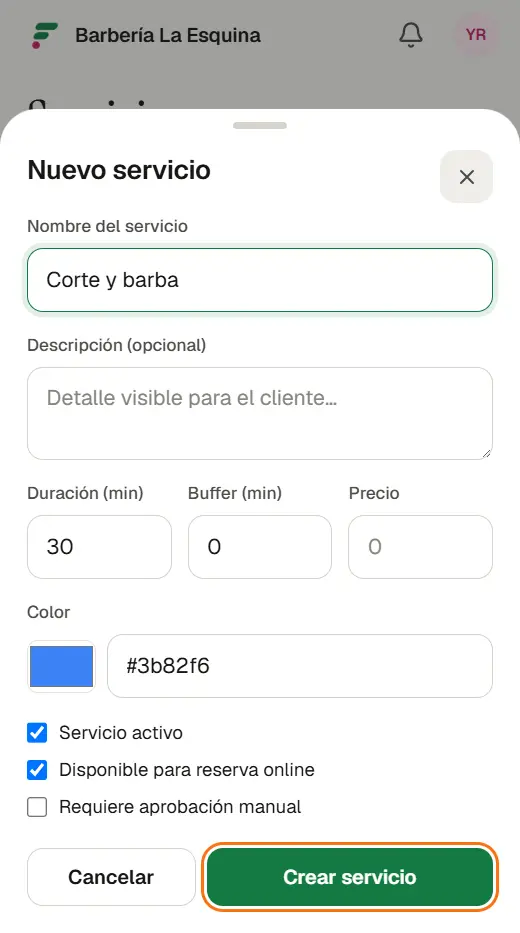
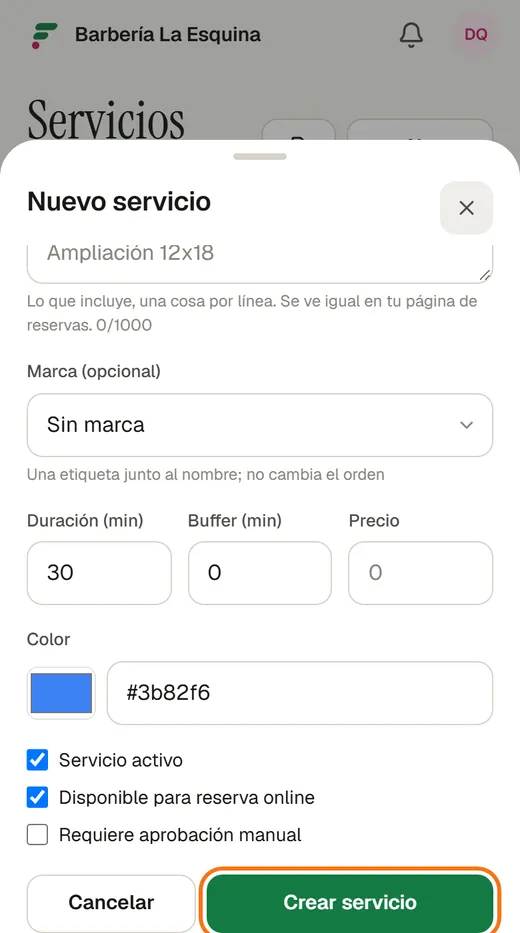
docs(services): manual, setup-guide photo and landing card for categories
Manual: categories, ordering, badges, duplicate, select-all per category,
the new "¿Qué te interesa?" step and category links. The services photo
of the setup guide is retaken (the form gained Marca and a taller
description). Landing gets a "Servicios por categorías" card.

diff --git a/docs/user-manual/turno-flash-user-manual.html b/docs/user-manual/turno-flash-user-manual.html
@@ -532,7 +532,7 @@
     <li>Pulsa <span class="ui">Nuevo turno</span> (en el teléfono, el botón redondo <span class="ui">+</span>).</li>
     <li>Elige el <strong>cliente</strong> de la lista. Si es nuevo, pulsa <span class="ui">Nuevo</span>, completa nombre, apellido, teléfono y (si quieres) email, y pulsa <span class="ui">Crear y seleccionar</span>.</li>
     <li>Elige <strong>fecha</strong> y <strong>hora</strong> de inicio.</li>
-    <li>Toca el <strong>servicio</strong>. Cada opción muestra la duración y el precio; la hora de fin se calcula sola.</li>
+    <li>Toca el <strong>servicio</strong>. Cada opción muestra la duración y el precio; la hora de fin se calcula sola. Si usas categorías, los servicios aparecen agrupados bajo el nombre de cada una.</li>
     <li>Opcional: elige el <strong>profesional</strong> o deja <span class="ui">Cualquiera</span>, y agrega una nota.</li>
     <li>Pulsa <span class="ui">Crear turno</span>.</li>
   </ol>
@@ -611,7 +611,10 @@
     <table>
       <thead><tr><th>Campo</th><th>Para qué sirve</th></tr></thead>
       <tbody>
-        <tr><td>Nombre y descripción</td><td class="wrap">Lo que ven tú y tus clientes en la reserva online.</td></tr>
+        <tr><td>Nombre</td><td class="wrap">Lo que ven tú y tus clientes. Si tienes varios parecidos, pon la diferencia en el nombre: <em>Álbum personalizado 6x8</em>, <em>Álbum personalizado 8x10</em>.</td></tr>
+        <tr><td>Categoría</td><td class="wrap">Solo aparece si creaste categorías (ver más abajo). El servicio se muestra dentro de esa categoría.</td></tr>
+        <tr><td>Descripción</td><td class="wrap">Lo que incluye, <strong>una cosa por línea</strong> (hasta 1000 letras). Tu cliente la ve tal cual la escribiste; si es larga, ve las primeras líneas y el botón <span class="ui">Ver detalle</span>.</td></tr>
+        <tr><td>Marca</td><td class="wrap">Una etiqueta opcional junto al nombre: <span class="ui">Recomendado</span>, <span class="ui">Más popular</span>, <span class="ui">Nuevo</span> u <span class="ui">Oferta</span>. No cambia el orden.</td></tr>
         <tr><td>Duración (min)</td><td class="wrap">Cuánto dura el servicio. Define la hora de fin del turno.</td></tr>
         <tr><td>Buffer (min)</td><td class="wrap">Tiempo extra que se reserva después del servicio para limpiar o prepararse. Ocupa agenda aunque no se cobre.</td></tr>
         <tr><td>Precio</td><td class="wrap">En la moneda de tu negocio.</td></tr>
@@ -622,6 +625,21 @@
     </table>
   </div>
   <p>El interruptor a la derecha de cada servicio lo pausa: deja de ofrecerse sin borrarlo, y queda marcado como <span class="ui">Pausado</span>. Puedes volver a activarlo cuando quieras.</p>
+
+  <h3>Categorías (opcional)</h3>
+  <p>Si ofreces muchos servicios, agrúpalos: por ejemplo <em>Bodas</em>, <em>Quinceañeras</em> y <em>Familiares</em>, o <em>Cortes</em>, <em>Color</em> y <em>Uñas</em>. Así tu cliente elige primero qué le interesa y solo ve esos servicios. Si no creas ninguna, todo sigue como siempre.</p>
+  <ol class="steps">
+    <li>En <span class="path">Servicios</span> pulsa <span class="ui">Categorías</span> (en el teléfono, el botón con la etiqueta, junto a <span class="ui">Nuevo</span>).</li>
+    <li>Escribe el nombre y, si quieres, una descripción corta (por ejemplo, <em>Incluye estilismo y vestuario</em>). Pulsa <span class="ui">Agregar categoría</span>.</li>
+    <li>Abre cada servicio y elige su <strong>Categoría</strong>. Pulsa <span class="ui">Guardar cambios</span>.</li>
+  </ol>
+  <p>En la lista de categorías, las flechas cambian el orden, el lápiz la edita y la papelera la borra. Borrar una categoría <strong>no borra sus servicios</strong>: quedan en <em>Sin categoría</em>. El botón del enlace copia un link que abre tu página de reservas <strong>directo en esa categoría</strong>, ideal para compartir solo las bodas en Instagram o por WhatsApp.</p>
+
+  <h3>Ordenar los servicios</h3>
+  <p>Pulsa <span class="ui">Ordenar</span>, arriba de la lista, y usa las flechas de cada servicio para subirlo o bajarlo dentro de su categoría. Pulsa <span class="ui">Listo</span> al terminar. Ese orden es el que ven tus clientes y tu equipo.</p>
+
+  <h3>Duplicar un servicio</h3>
+  <p>Para cargar varios paquetes parecidos, abre uno y toca <span class="ui">Duplicar este servicio</span>. Se crea una copia llamada <em>… (copia)</em>, con los mismos profesionales asignados, y se abre para que cambies el nombre, lo que incluye y el precio.</p>
 
   <h2 id="td-profesionales">Profesionales</h2>
   <p>En <span class="path">Profesionales</span> cargas a las personas que atienden. Pulsa <span class="ui">Nuevo</span> y completa nombre y apellido; el resto es opcional: apodo (es el nombre que se muestra), teléfono, email, especialidades separadas por coma, una bio y un color para la agenda. Si esa persona entra a la app con su propia cuenta, elígela en <strong>Cuenta de la app</strong>: así verá la pastilla <span class="ui">Mis turnos</span> en su agenda. Además hay tres casillas:</p>
@@ -634,7 +652,7 @@
   <h3>Horario y servicios de cada profesional</h3>
   <p>Desde el menú <span class="ui">⋮</span> › <span class="ui">Horario y servicios</span> de cada profesional configuras tres cosas:</p>
   <ul>
-    <li><strong>Servicios que realiza:</strong> toca los que hace esa persona. Solo esos se le ofrecen online.</li>
+    <li><strong>Servicios que realiza:</strong> toca los que hace esa persona. Solo esos se le ofrecen online. Si usas categorías, <span class="ui">Marcar todos</span> junto a cada una marca todos sus servicios de un toque (y <span class="ui">Quitar todos</span> los desmarca). Un servicio que crees después en esa categoría hay que marcarlo aparte, salvo que lo hayas duplicado de uno que esa persona ya hacía.</li>
     <li><strong>Horario semanal:</strong> para cada día marca <em>Trabaja</em> y define desde y hasta. Si corta al mediodía, usa <span class="ui">Agregar tramo</span> para cargar un segundo horario el mismo día.</li>
     <li><strong>Días libres y vacaciones:</strong> elige desde, hasta y un motivo, y pulsa <span class="ui">Agregar</span>. Se guardan en el momento. Si ya hay turnos esos días, la app te avisa antes: el cierre no los cancela, tienes que moverlos o cancelarlos tú. Desde el panel tampoco se pueden crear turnos con ese profesional en un día cerrado.</li>
   </ul>
@@ -652,6 +670,7 @@
 
   <h3>Qué hace tu cliente en la página</h3>
   <div class="flow" aria-label="Pasos de la reserva online">
+    <span class="chip plain">¿Qué te interesa?</span><span class="arrow">→</span>
     <span class="chip plain">Elige un servicio</span><span class="arrow">→</span>
     <span class="chip plain">¿Con quién?</span><span class="arrow">→</span>
     <span class="chip plain">Elige día y horario</span><span class="arrow">→</span>
@@ -659,6 +678,7 @@
     <span class="chip plain">Listo</span>
   </div>
   <ul>
+    <li><em>¿Qué te interesa?</em> solo aparece si usas <strong>dos o más categorías</strong>: muestra cada una con su descripción, cuántas opciones tiene y desde qué precio. Después ve solo los servicios de la que eligió, en tu orden y con sus marcas. Los servicios sin categoría salen juntos como <em>Otros</em>. Si alguien entra con el link de una categoría, va directo a ella.</li>
     <li>En <em>¿Con quién?</em> puede elegir a un profesional o <strong>Sin preferencia</strong>, y la app asigna al primero que esté libre. Si el servicio lo hace una sola persona, ese paso se salta.</li>
     <li>Solo ve horarios realmente libres, calculados con el horario de cada profesional, sus turnos, sus días libres y los cierres del negocio.</li>
     <li>En <em>Tus datos</em> deja nombre, teléfono de WhatsApp (con selector de país) y, si quiere, apellido, email y una nota para el negocio. Su teléfono recuerda el nombre y el número para la próxima reserva.</li>

diff --git a/app/(app)/home-client.tsx b/app/(app)/home-client.tsx
@@ -34,6 +34,7 @@ import {
   Plus,
   ServerCog,
   Smartphone,
+  Tags,
   Users,
 } from "lucide-react";
 import Link from "next/link";
@@ -79,6 +80,12 @@ const FEATURES: readonly Feature[] = [
     title: "Sin dobles reservas",
     description:
       "Tu calendario siempre actualizado en tiempo real, sin solapes.",
+  },
+  {
+    Icon: Tags,
+    title: "Servicios por categorías",
+    description:
+      "Agrupa tu catálogo (bodas, cortes, consultas…) y destaca lo más pedido. Tus clientes encuentran rápido lo que buscan.",
   },
   {
     Icon: ChartColumn,
